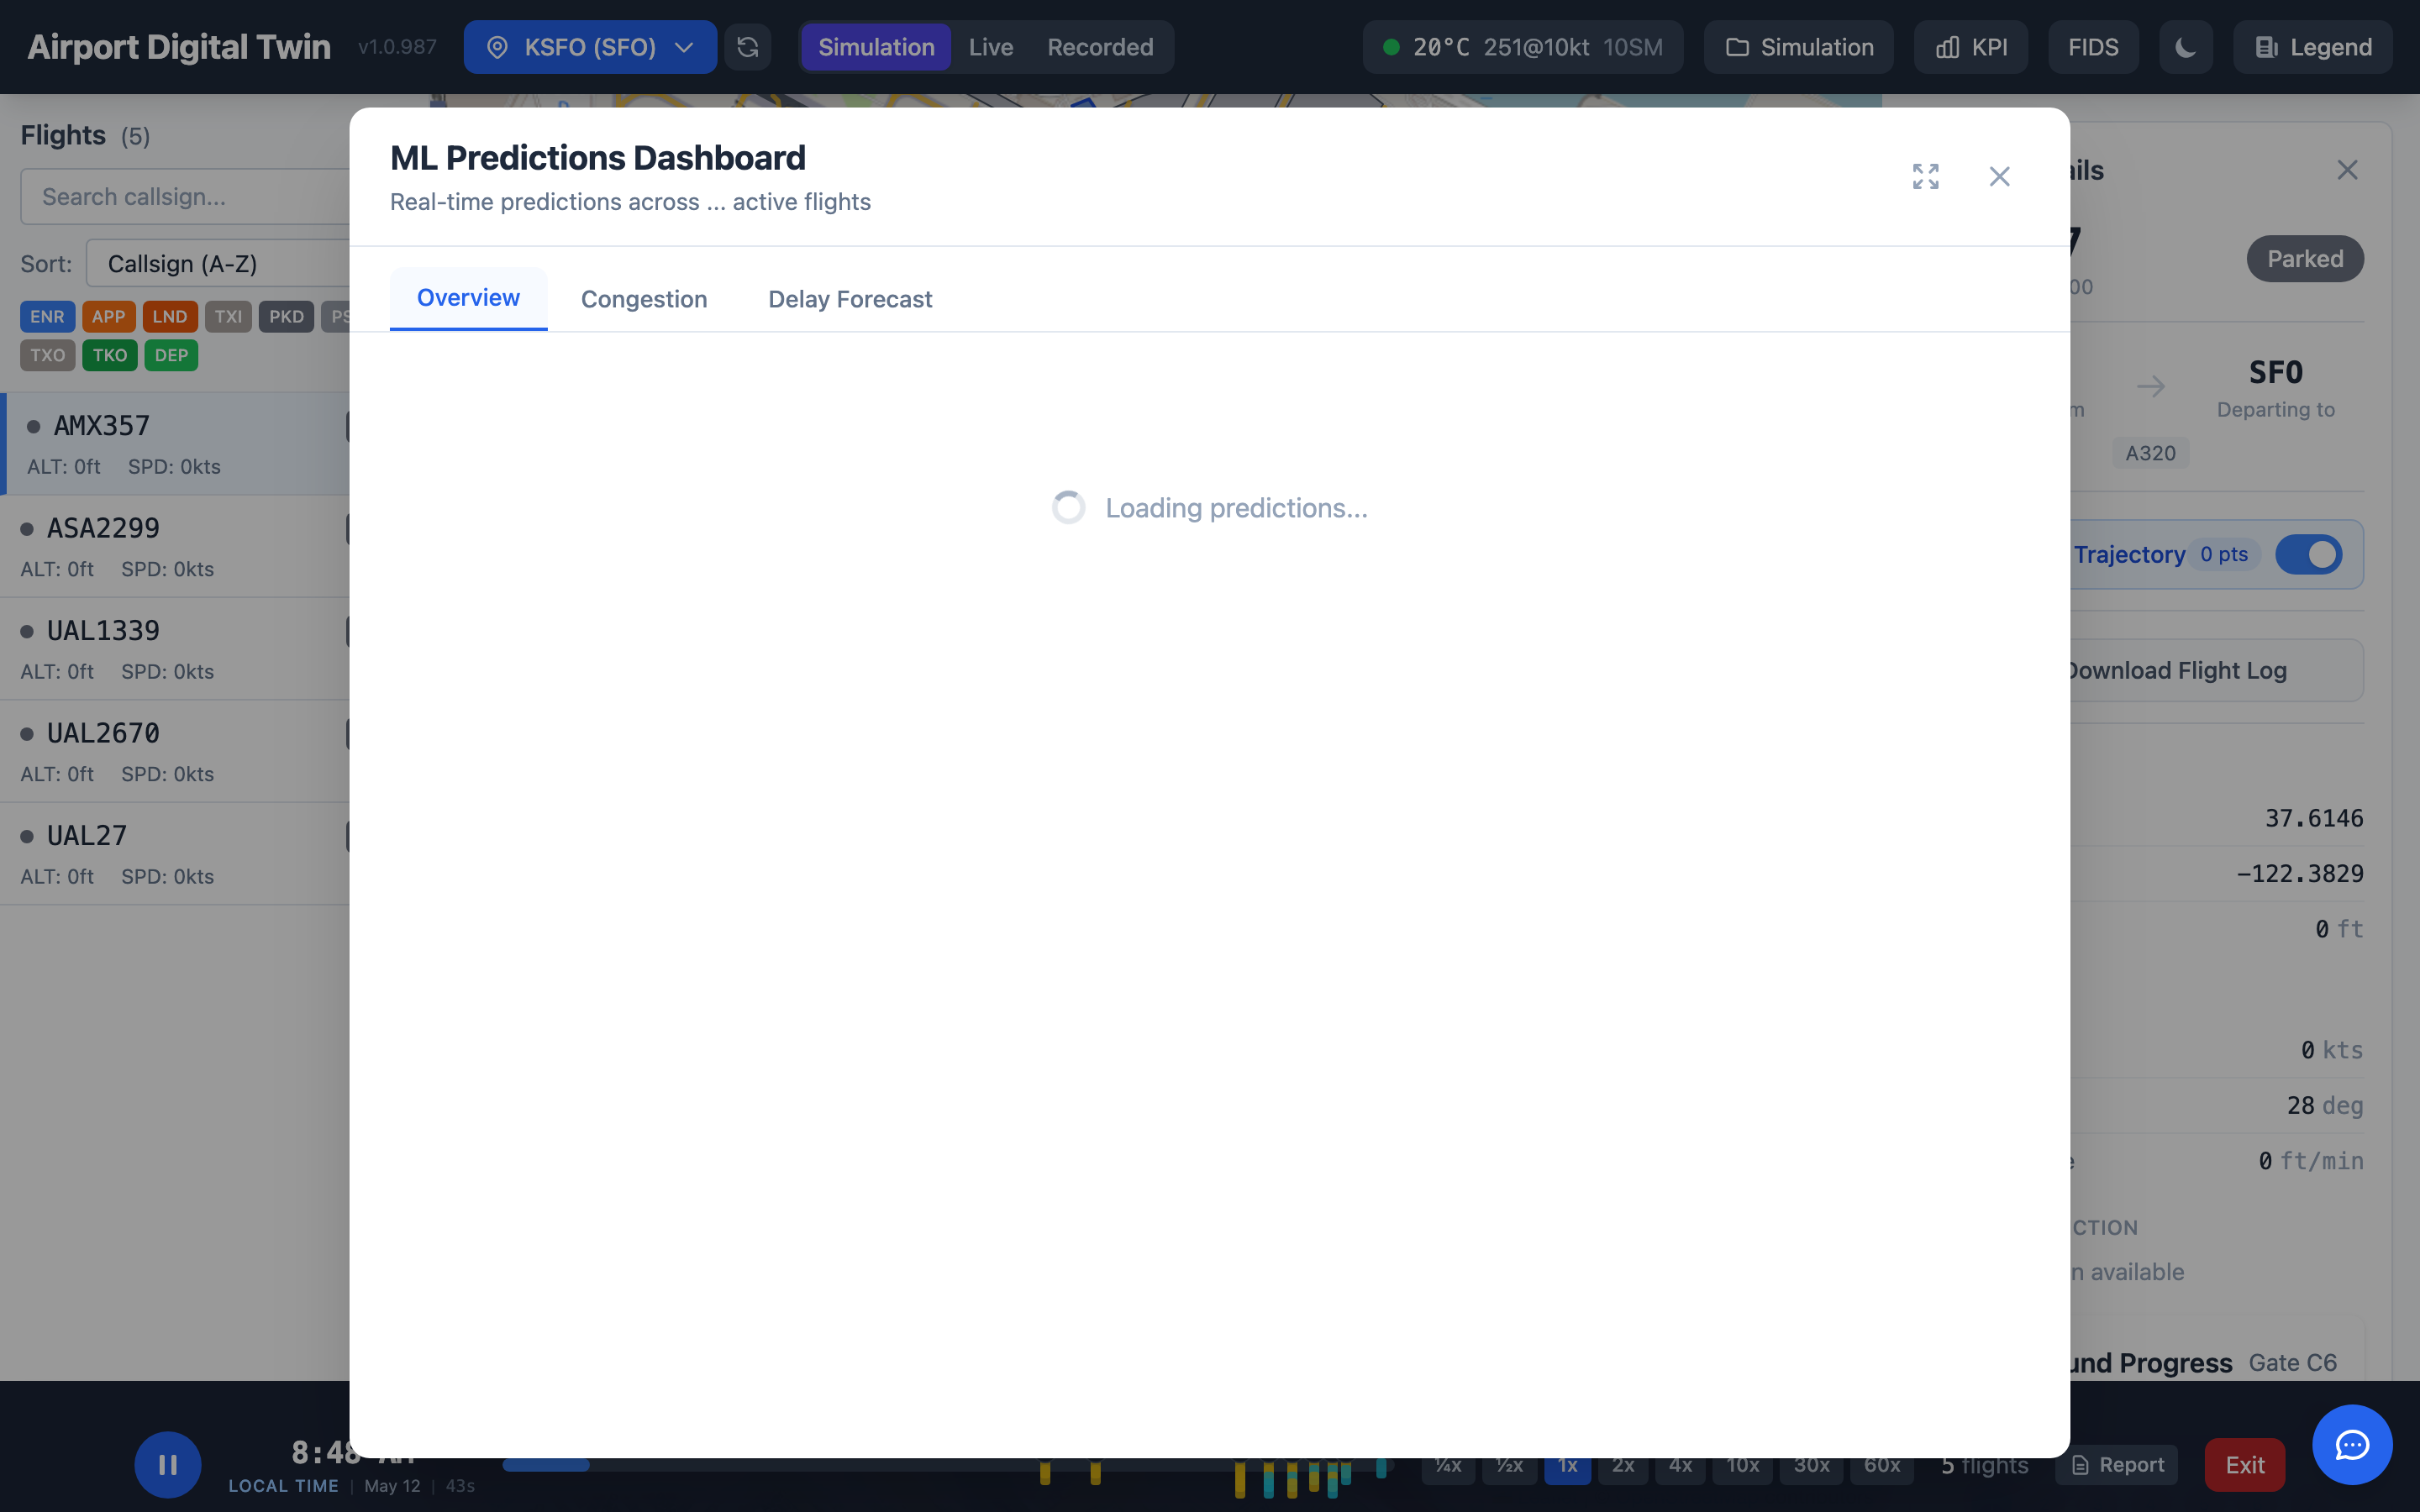
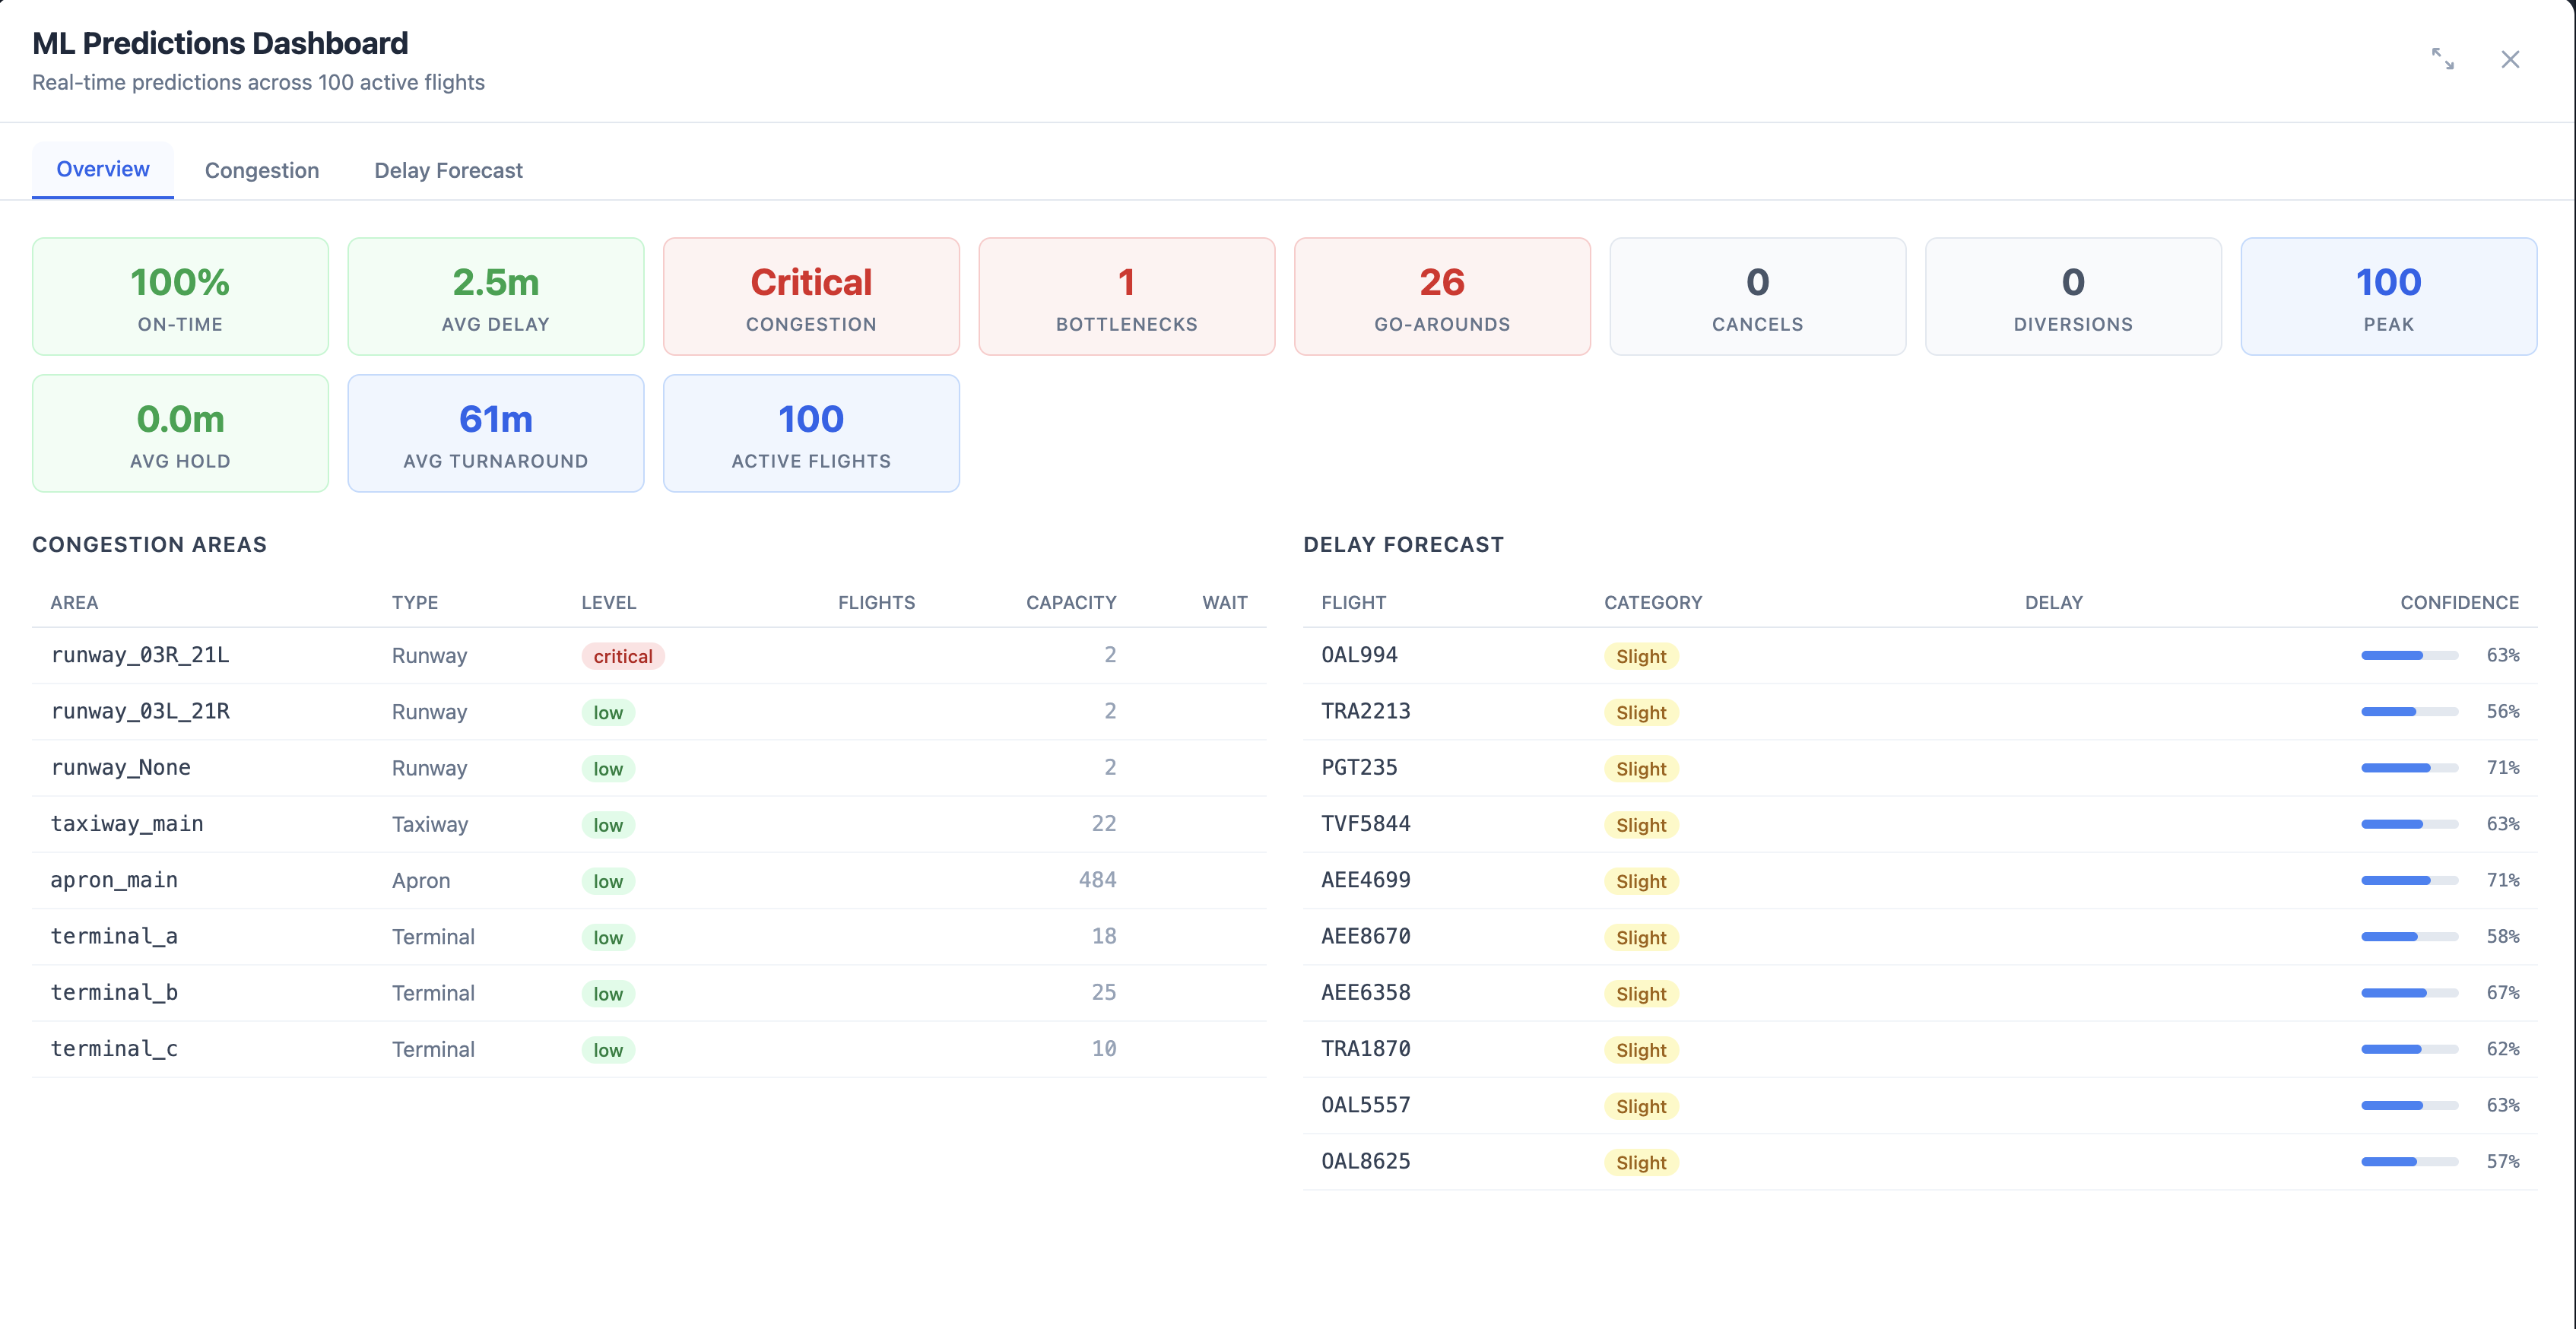
docs: add EU dependencies doc and update platform links screenshot

diff --git a/docs/DATABRICKS_DEPENDENCIES_EU.md b/docs/DATABRICKS_DEPENDENCIES_EU.md
@@ -1,0 +1,65 @@
+# Airport Digital Twin — Databricks Dependencies & EU Region Availability
+
+## Summary
+
+All core Databricks services are available in EU regions. The project's `free` target already runs in eu-west-1 with Lakebase, Apps, and Unity Catalog confirmed working. Two optional features (Foundation Model LLM endpoints and Genie Space) may have limited availability depending on the specific EU region.
+
+---
+
+## Dependencies Matrix
+
+### Databricks Platform Services
+
+| Dependency | Service Type | Current Region | EU Available? | Notes |
+|---|---|---|---|---|
+| Databricks Workspace | Apps, UC, Jobs, Pipelines | us-east-1 (dev/prod), eu-west-1 (free) | ✅ Yes | All standard workspace features |
+| SQL Warehouse | Serverless SQL | Same as workspace | ✅ Yes | Serverless SQL GA in all regions |
+| Lakebase (Autoscale PostgreSQL) | Managed Postgres | us-east-1 (dev/prod), eu-west-1 (free) | ✅ Yes (GA) | Already running in eu-west-1 on free target |
+| Unity Catalog | Delta tables, Volumes, ML models | Workspace region | ✅ Yes | Tables, Volumes, model registry |
+| DLT Pipelines | Serverless pipelines | Workspace region | ✅ Yes | Bronze/Silver/Gold flight + baggage |
+| Databricks Apps | App hosting (FastAPI) | Workspace region | ✅ Yes | Confirmed working in eu-west-1 |
+| Secret Scope | Credentials store | Workspace region | ✅ Yes | Used for OpenSky API credentials |
+
+### AI/ML Services
+
+| Dependency | Service Type | Current Region | EU Available? | Notes |
+|---|---|---|---|---|
+| Model Serving — Foundation Models | `databricks-claude-sonnet-4-5` (primary), `databricks-meta-llama-3-3-70b-instruct` (fallback) | Workspace region | ⚠️ Region-dependent | Claude availability varies by EU region; Llama also varies |
+| Model Serving — Custom Endpoint | `airport-dt-aircraft-inpainting-dev/prod` | Workspace region | ✅ Yes | Custom model serving endpoints work in all regions |
+| Genie Space (AI/BI) | Natural language to SQL | Workspace region | ⚠️ Check availability | May still be preview/limited in some EU regions |
+| Vector Search | (not currently used) | — | ✅ Yes | Not a blocker — reserved for future use |
+
+### External APIs (Non-Databricks)
+
+| Dependency | Service | Region | EU Available? | Notes |
+|---|---|---|---|---|
+| OpenSky Network API | Real-time flight tracking | Global (opensky-network.org) | ✅ Yes | EU-based organization (Switzerland) |
+| Overpass API (OSM) | Airport geometry data | Global (overpass-api.de) | ✅ Yes | Germany-based, serves worldwide |
+
+---
+
+## Current Target Configuration
+
+| Target | Workspace Region | Lakebase Host | Warehouse ID | Catalog |
+|---|---|---|---|---|
+| dev | us-east-1 | ep-polished-forest-d2hjnab6.database.us-east-1.cloud.databricks.com | b868e84cedeb4262 | serverless_stable_3n0ihb_catalog |
+| prod | us-east-1 | ep-summer-scene-d2ew95fl.database.us-east-1.cloud.databricks.com | b868e84cedeb4262 | serverless_stable_3n0ihb_catalog |
+| free | eu-west-1 | ep-patient-fire-d38b447d.database.eu-west-1.cloud.databricks.com | 58d41113cb262dce | main |
+
+---
+
+## Potential EU Blockers
+
+1. **Foundation Model Endpoints** — The LLM assistant uses `databricks-claude-sonnet-4-5` for function-calling routing and report generation. If not available in the target EU region, configure `ASSISTANT_MODEL_ENDPOINT` env var to an available model. The app gracefully degrades without LLM (assistant tab disabled, reports use template-only mode).
+
+2. **Genie Space** — Used for natural language flight queries. If not available in EU region, the Genie tab in the unified assistant won't function. The rest of the app is unaffected.
+
+---
+
+## Recommendation
+
+For a full EU deployment:
+- Use an EU workspace (eu-west-1 or eu-central-1)
+- Lakebase, Apps, UC, DLT, SQL Warehouse — all confirmed working
+- Verify foundation model availability in your specific EU region via Workspace → Serving → Foundation Models
+- If Genie is unavailable, disable the Genie routing in the assistant config